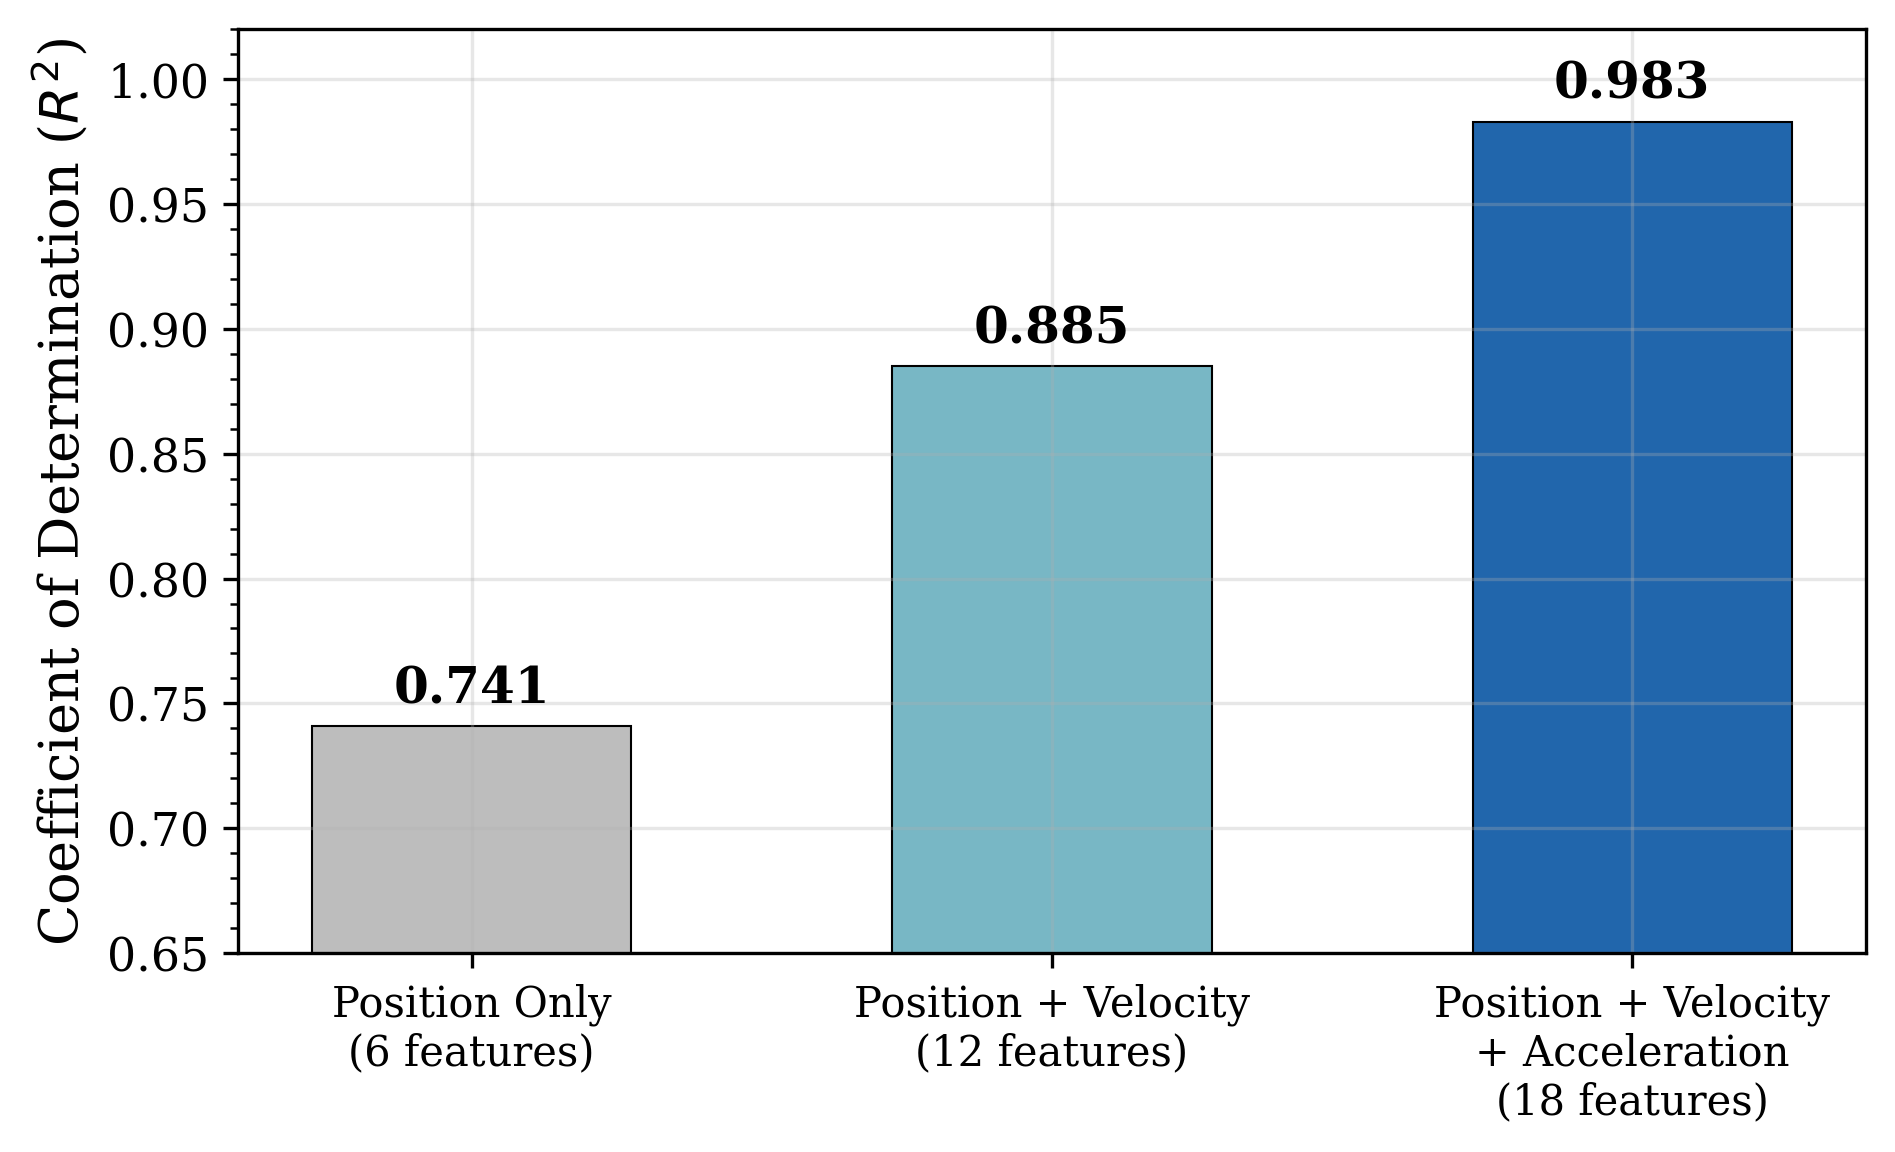
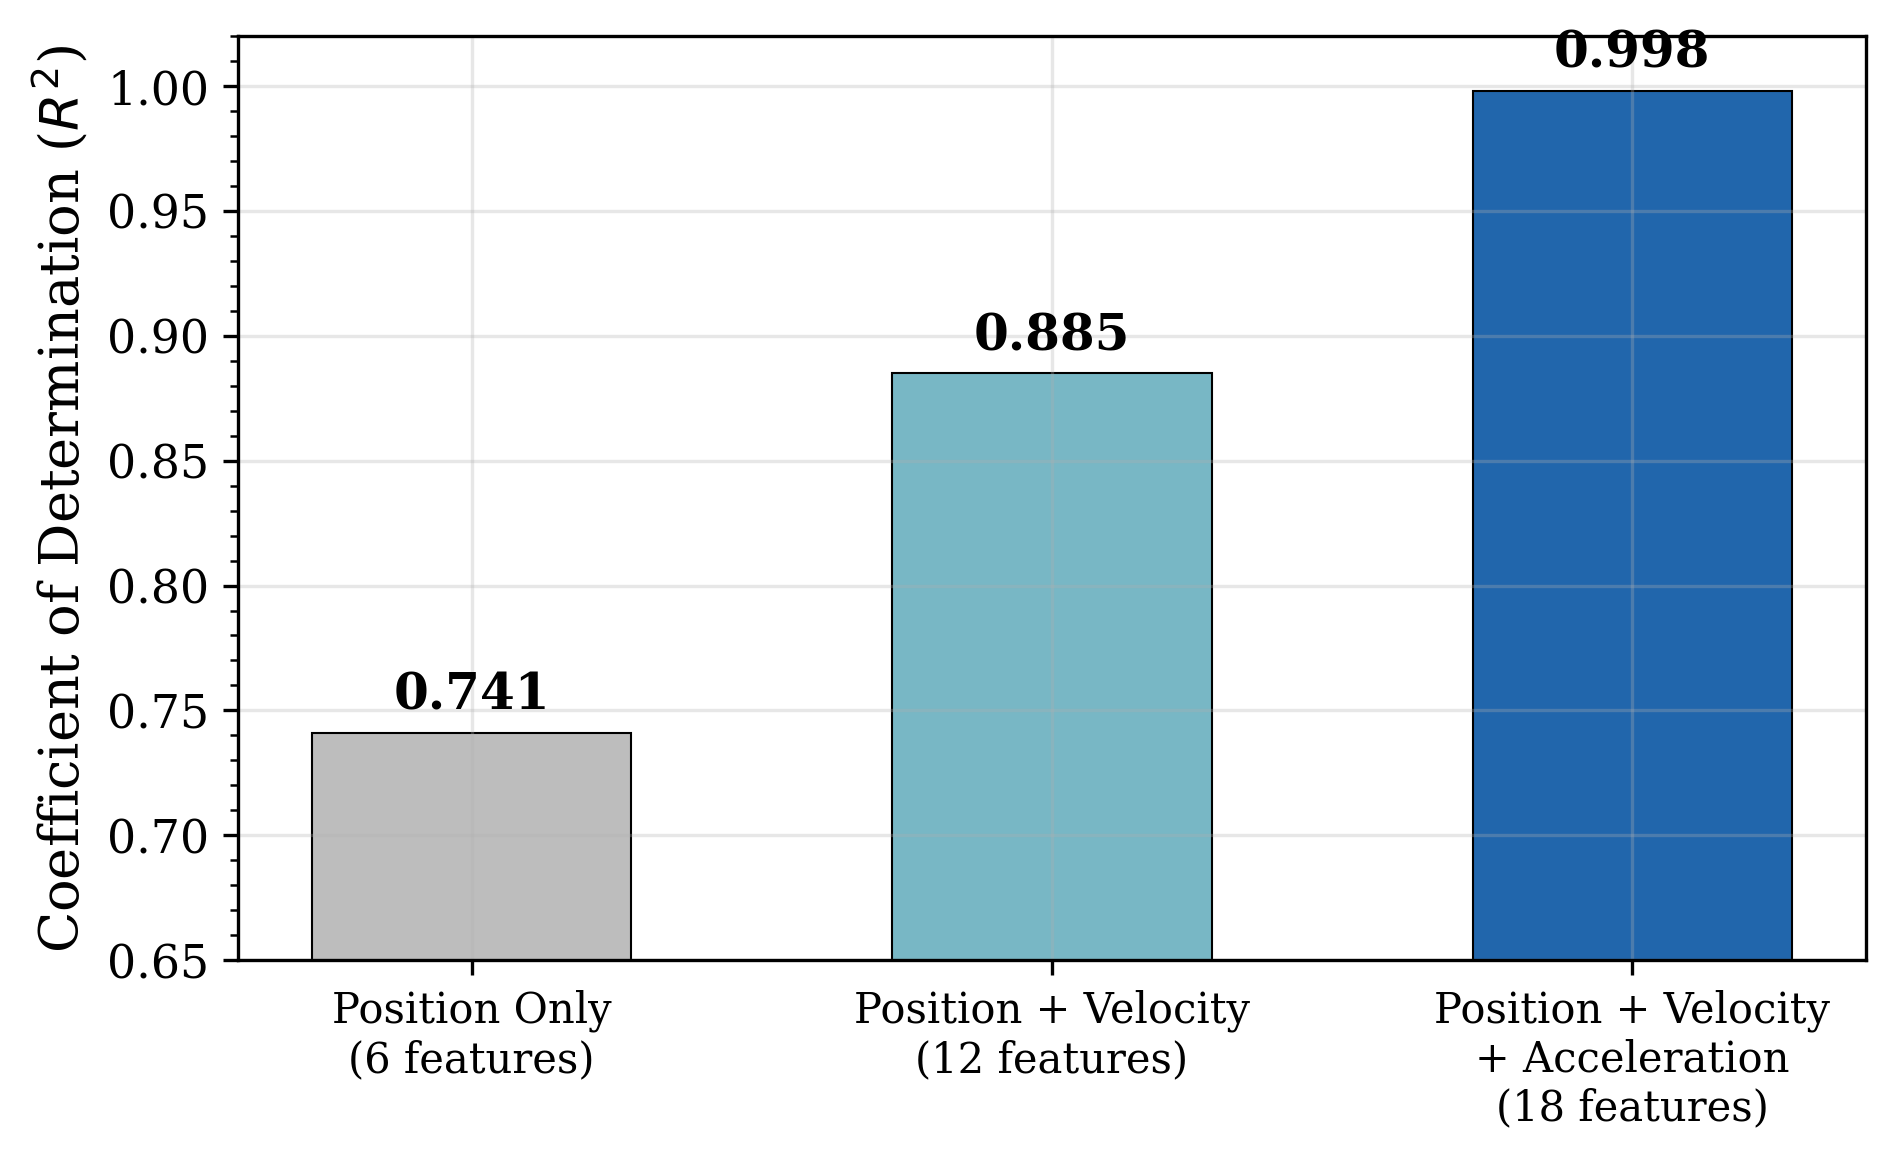
Update paper figures for balanced test set

diff --git a/paper/generate_paper_figures.py b/paper/generate_paper_figures.py
@@ -220,7 +220,7 @@ print("Generating Figure 5: Ablation Study Bar Chart...")
 ablation_data = {
     'Position Only\n(6 features)': 0.741,
     'Position + Velocity\n(12 features)': 0.885,
-    'Position + Velocity\n+ Acceleration\n(18 features)': 0.983,
+    'Position + Velocity\n+ Acceleration\n(18 features)': 0.998,
 }
 
 fig, ax = plt.subplots(figsize=(7, 4))
@@ -248,9 +248,9 @@ plt.close(fig)
 print("Generating Figure 6: Baseline Comparison...")
 
 baseline_data = {
-    'Linear\nRegression': {'rmse': 142.5, 'r2': 0.612},
-    'Random\nForest': {'rmse': 89.2, 'r2': 0.841},
-    'Neural\nSurrogate\n(Ours)': {'rmse': 16.4, 'r2': 0.983},
+    'Linear\nRegression': {'rmse': 44.4, 'r2': 0.675},
+    'Random\nForest': {'rmse': 35.5, 'r2': 0.792},
+    'Neural\nSurrogate\n(Ours)': {'rmse': 20.6, 'r2': 0.930},
 }
 
 fig, (ax1, ax2) = plt.subplots(1, 2, figsize=(10, 4))
